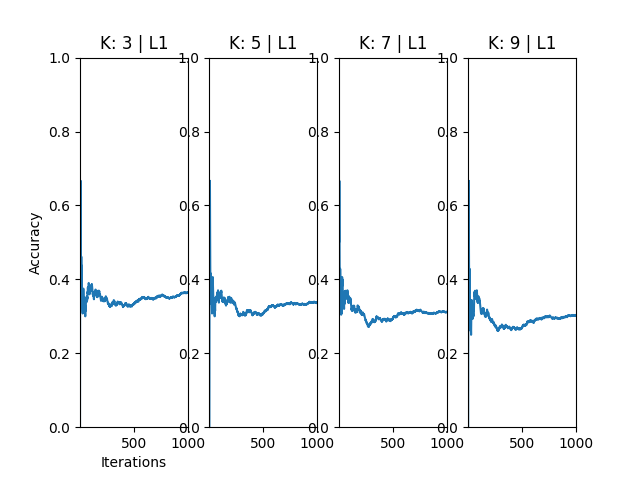
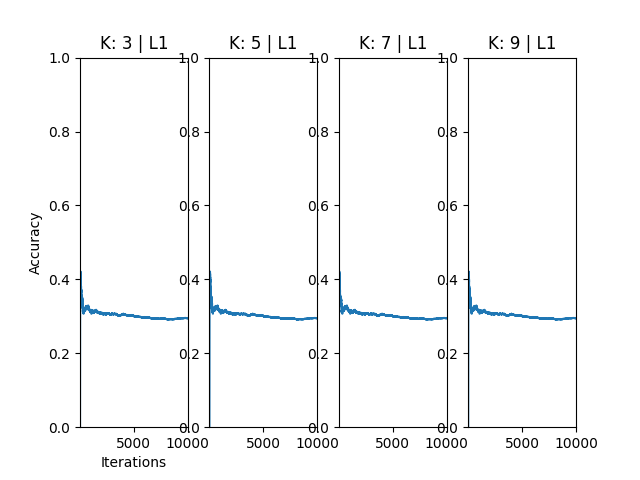
Add PCA to KNN

diff --git a/Assignment 4/Code/KNearestNeighbor.py b/Assignment 4/Code/KNearestNeighbor.py
@@ -2,59 +2,65 @@ import numpy as np
 import LoadImages
 import time
 import matplotlib.pyplot as plt
+from sklearn.decomposition import PCA
 
 
 def euclidean_distance(img1: np.ndarray, img2: np.ndarray) -> float:
     """
     Returns the Euclidean distance between two images, square root of each pixel's RGB summed up
-    Modified to include L1 Norm
     :param img1:
     :param img2:
     :return:
     """
-    # L1 Norm: a = np.linalg.norm(img1.astype(np.int32) - img2.astype(np.int32), ord=1)
-    # Slower: a = np.sqrt(np.sum(np.square(img1.astype(np.int32)-img2.astype(np.int32))))
-    # Faster:  np.linalg.norm(img1.astype(np.int32) - img2.astype(np.int32))
-    return np.linalg.norm(img1.astype(np.int32) - img2.astype(np.int32), axis=1, ord=norm_type)
+    # Slower for some reason: return np.linalg.norm(img1 - img2, axis=1, ord=norm_type)
+    return np.sqrt(np.sum(np.square(img1 - img2), axis=1))
+
+
+def manhattan_distance(img1: np.ndarray, img2: np.ndarray) -> float:
+    """
+    Returns the Manhattan distance between two images, sum of each pixel's RGB
+    :param img1:
+    :param img2:
+    :return:
+    """
+    return np.sum(np.abs(img1 - img2), axis=1)
 
 
 def classify(training_data: np.ndarray, img_data: np.ndarray) -> np.ndarray:
     # top_matches.clear()
     img = np.expand_dims(img_data, axis=0)
-    start_time = time.time()
-    distances = euclidean_distance(training_data, img)
-    print(f"Time: {time.time() - start_time}")
+    img = pca.transform(img)
+    distances = distance(training_data, img)
     return np.argpartition(distances, K)[:K]
 
 
-def calculate(training_data, training_labels, testing_data, testing_labels):
+def calculate(training_data, training_labels, testing_data, testing_labels, print_results=False):
     correct = 0
     incorrect = 0
     accuracies = np.zeros(len(testing_data))
     for index in range(len(testing_data)):
-
         closestK = classify(training_data, testing_data[index])
-
         est = training_labels[closestK].max()
         if est == testing_labels[index]:
             correct += 1
         else:
             incorrect += 1
         accuracy = correct / (correct + incorrect)
-        print(f"Incorrect: {incorrect}, Correct: {correct}, Accuracy: {accuracy}")
+        if print_results:
+            print(f"Incorrect: {incorrect}, Correct: {correct}, Accuracy: {accuracy}")
         accuracies[index] = accuracy
 
     return accuracies
 
-
-K = 7
-# top_matches = MaxHeap.MaxHeap(K)
-norm = "L2"  # L1 or L2
-norm_type = 1 if norm == "L1" else 2
-# Uses pixel values to classify images
-if __name__ == "__main__":
+def computeKNN(current_norm):
+    global norm
+    norm = "L1" if current_norm == 1 else "L2"
+    global distance
+    distance = manhattan_distance if norm == "L1" else euclidean_distance
     print("KNearestNeighbor.py")
     training_data, training_labels, testing_data, testing_labels, labels = LoadImages.all_images()
+    training_data = pca.fit_transform(training_data)
+
     figure, axis = plt.subplots(1, 4, squeeze=False)
     axis[0, 0].set_xlabel("Iterations")
     axis[0, 0].set_ylabel("Accuracy")
@@ -64,11 +70,23 @@ if __name__ == "__main__":
         K = i
         print(f"K: {K}")
         accuracy = calculate(training_data, training_labels, testing_data, testing_labels)
+        accuracy = np.insert(accuracy, 0, 0)
         axis[0, iteration].plot(accuracy)
-        axis[0, iteration].set_xlim([1, range(len(testing_data))])
+        axis[0, iteration].set_xlim([1, len(testing_data)])
         axis[0, iteration].set_ylim([0, 1])
         axis[0, iteration].set_title(f"K: {K} | {norm}")
         iteration += 1
     plt.savefig(f"../Output Pictures/Nearest Neighbors {norm}.png")
-    plt.show()
+    # plt.show()
     plt.close()
+
+K = 7
+# top_matches = MaxHeap.MaxHeap(K)
+norm = "L2"  # L1 or L2
+distance = manhattan_distance if norm == "L1" else euclidean_distance
+
+pca = PCA(n_components=30)
+# Uses pixel values to classify images
+if __name__ == "__main__":
+    computeKNN(1)
+    computeKNN(2)
